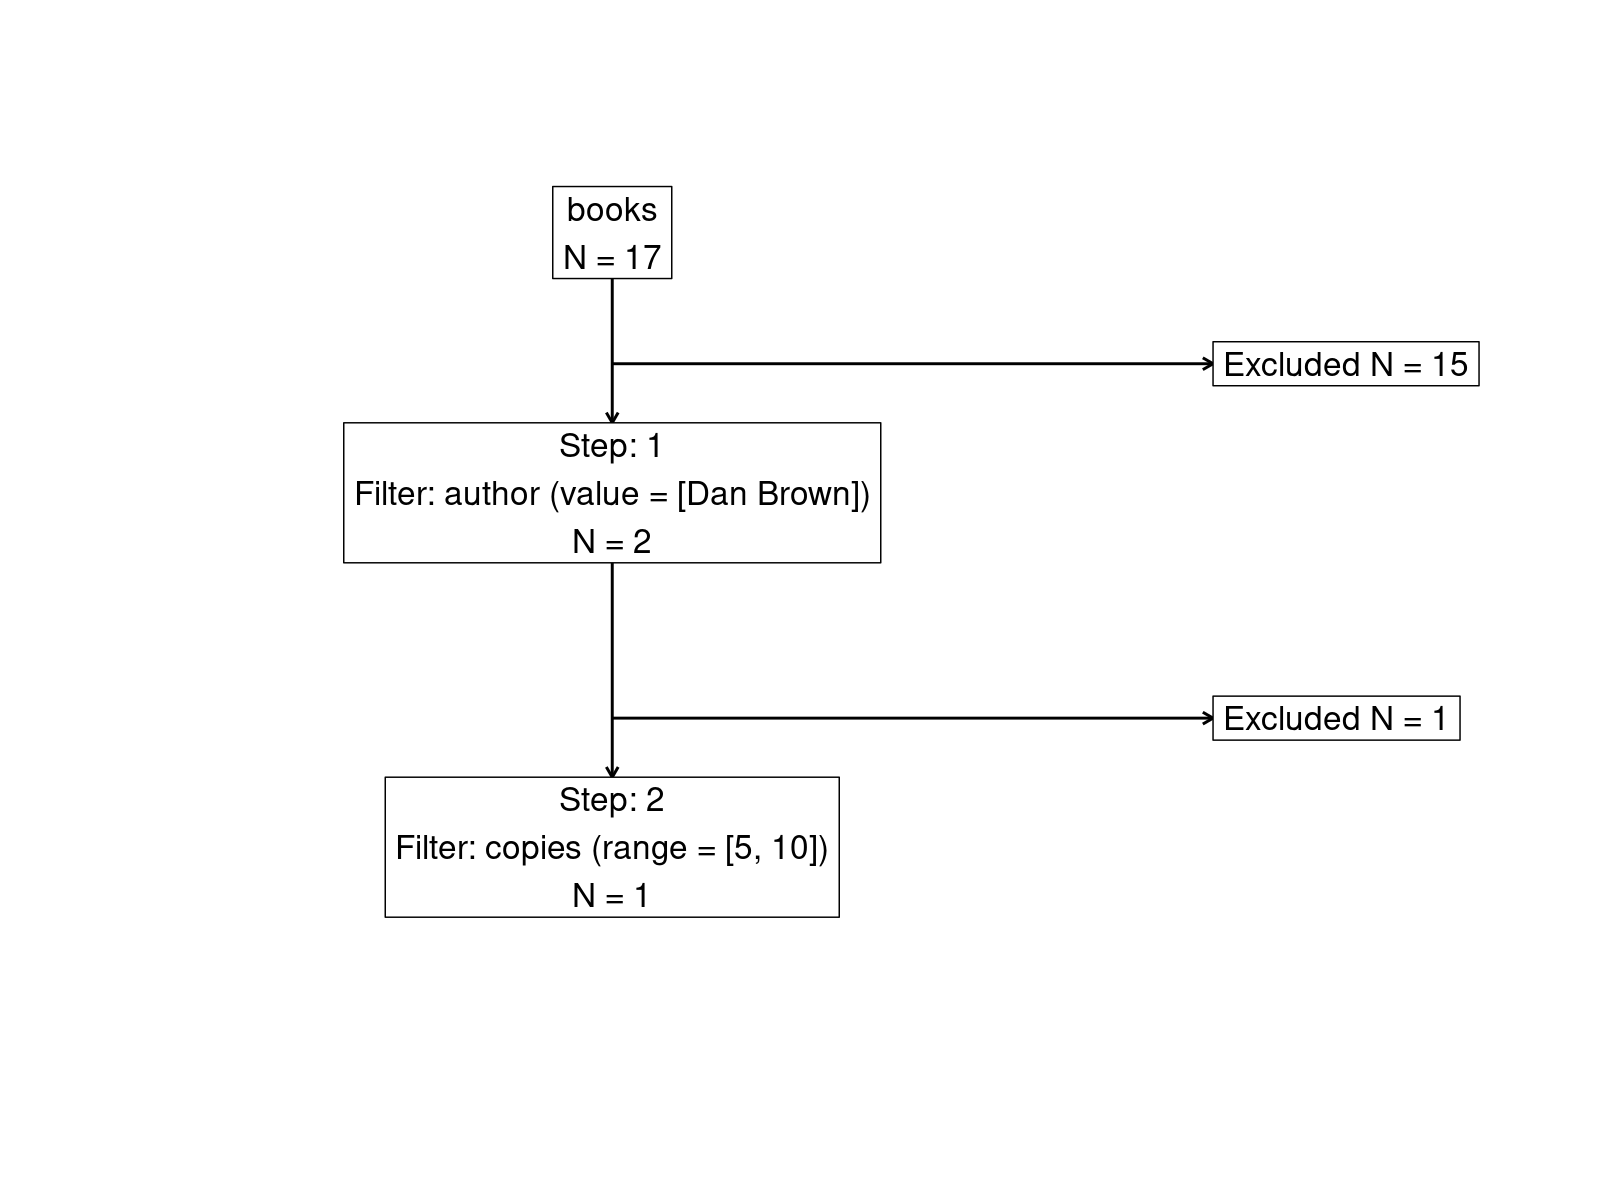
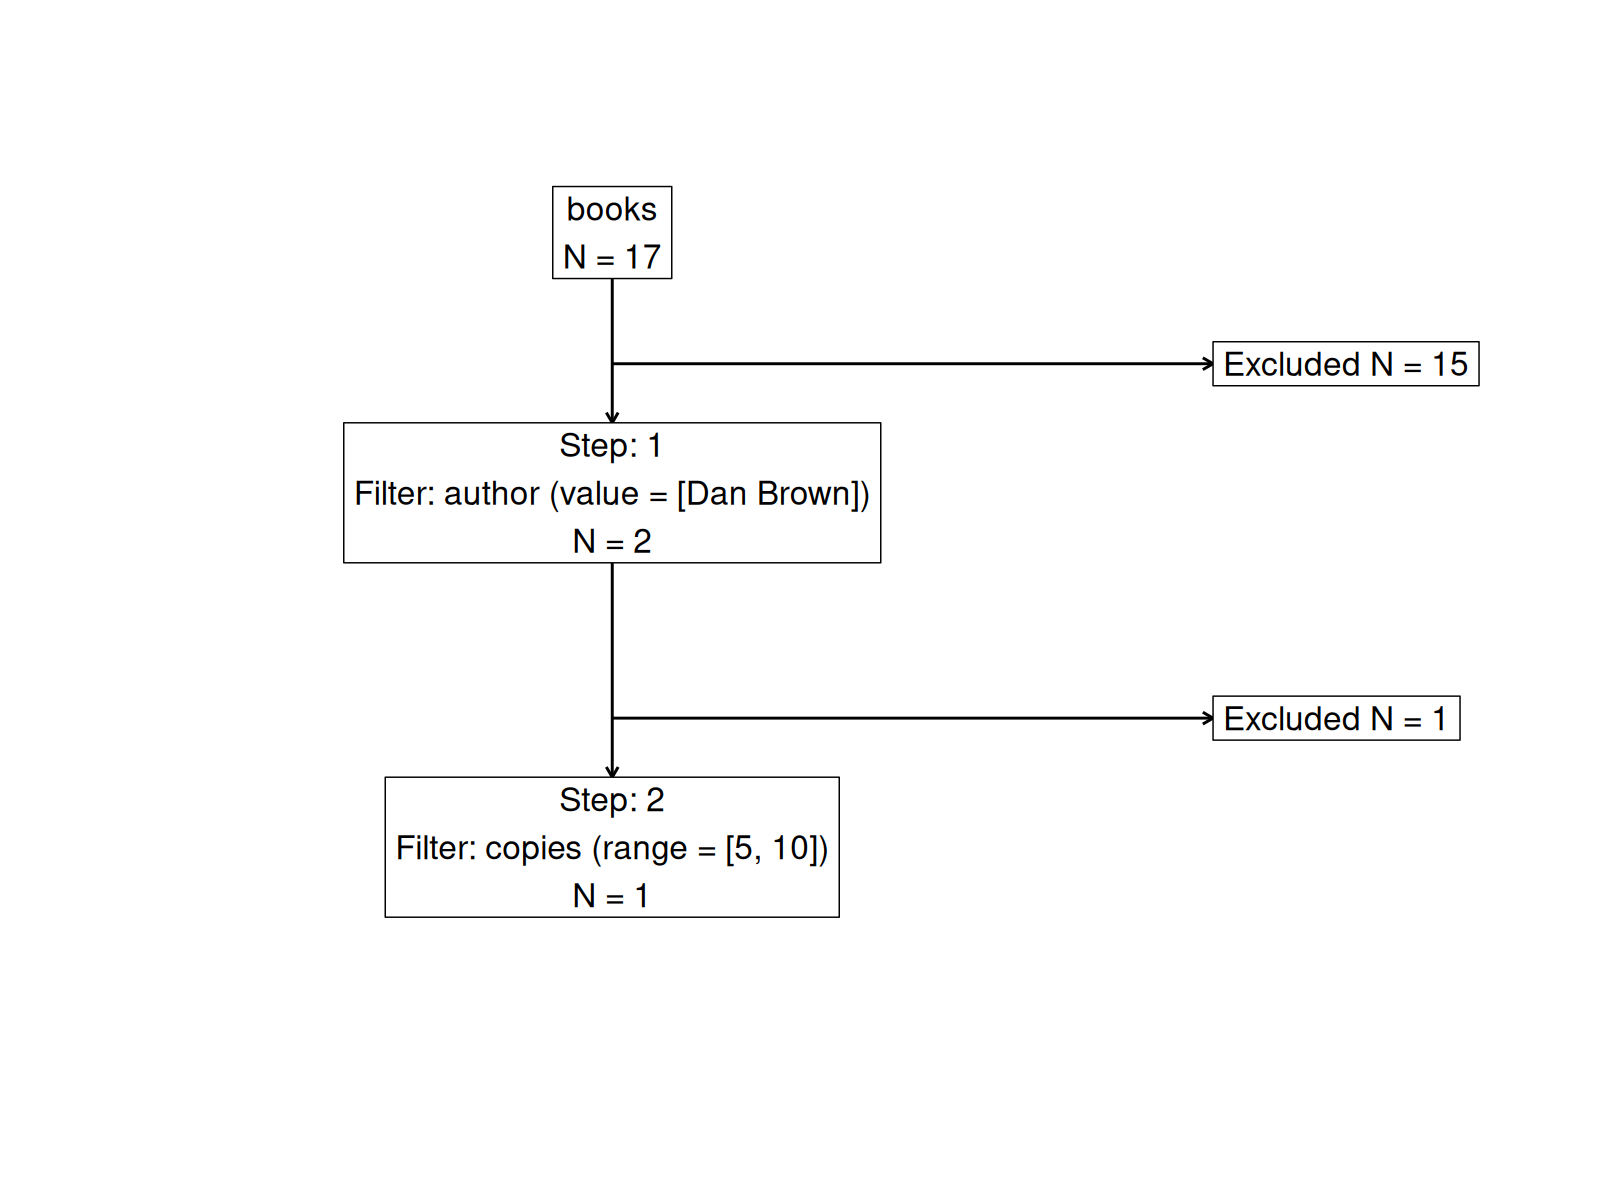
Update readme.

diff --git a/README.md b/README.md
@@ -33,7 +33,7 @@ With `cohortBuilder` you can share the cohort easier with useful
 methods:
 
 - `code` - to get reproducible cohort creation code,
-- `get_state` - to get cohort state (e.g. in JSON) that can be then
+- `get_state` - to get cohort state (e.g. in JSON) that can be then
   easily restored with `restore`.
 
 Or modify the cohort configuration with:
@@ -79,7 +79,7 @@ librarian_source <- set_source(
   as.tblist(librarian)
 )
 
-coh <- librarian_source %>% 
+coh <- librarian_source |> 
   cohort(
     filter(
       "discrete", id = "author", dataset = "books", 
@@ -93,7 +93,7 @@ coh <- librarian_source %>%
       "date_range", id = "registered", dataset = "borrowers", 
       variable = "registered", range = c(as.Date("2010-01-01"), Inf)
     ) 
-  ) %>% 
+  ) |> 
   run()
 
 get_data(coh)
@@ -153,7 +153,7 @@ get_data(coh)
 ```
 
 ``` r
-coh <- librarian_source %>% 
+coh <- librarian_source |> 
   cohort() %->% 
   step(
     filter(
@@ -170,7 +170,7 @@ coh <- librarian_source %>%
       "range", id = "copies", dataset = "books", 
       variable = "copies", range = c(5, 10)
     )
-  ) %>% 
+  ) |> 
   run()
 ```
 
